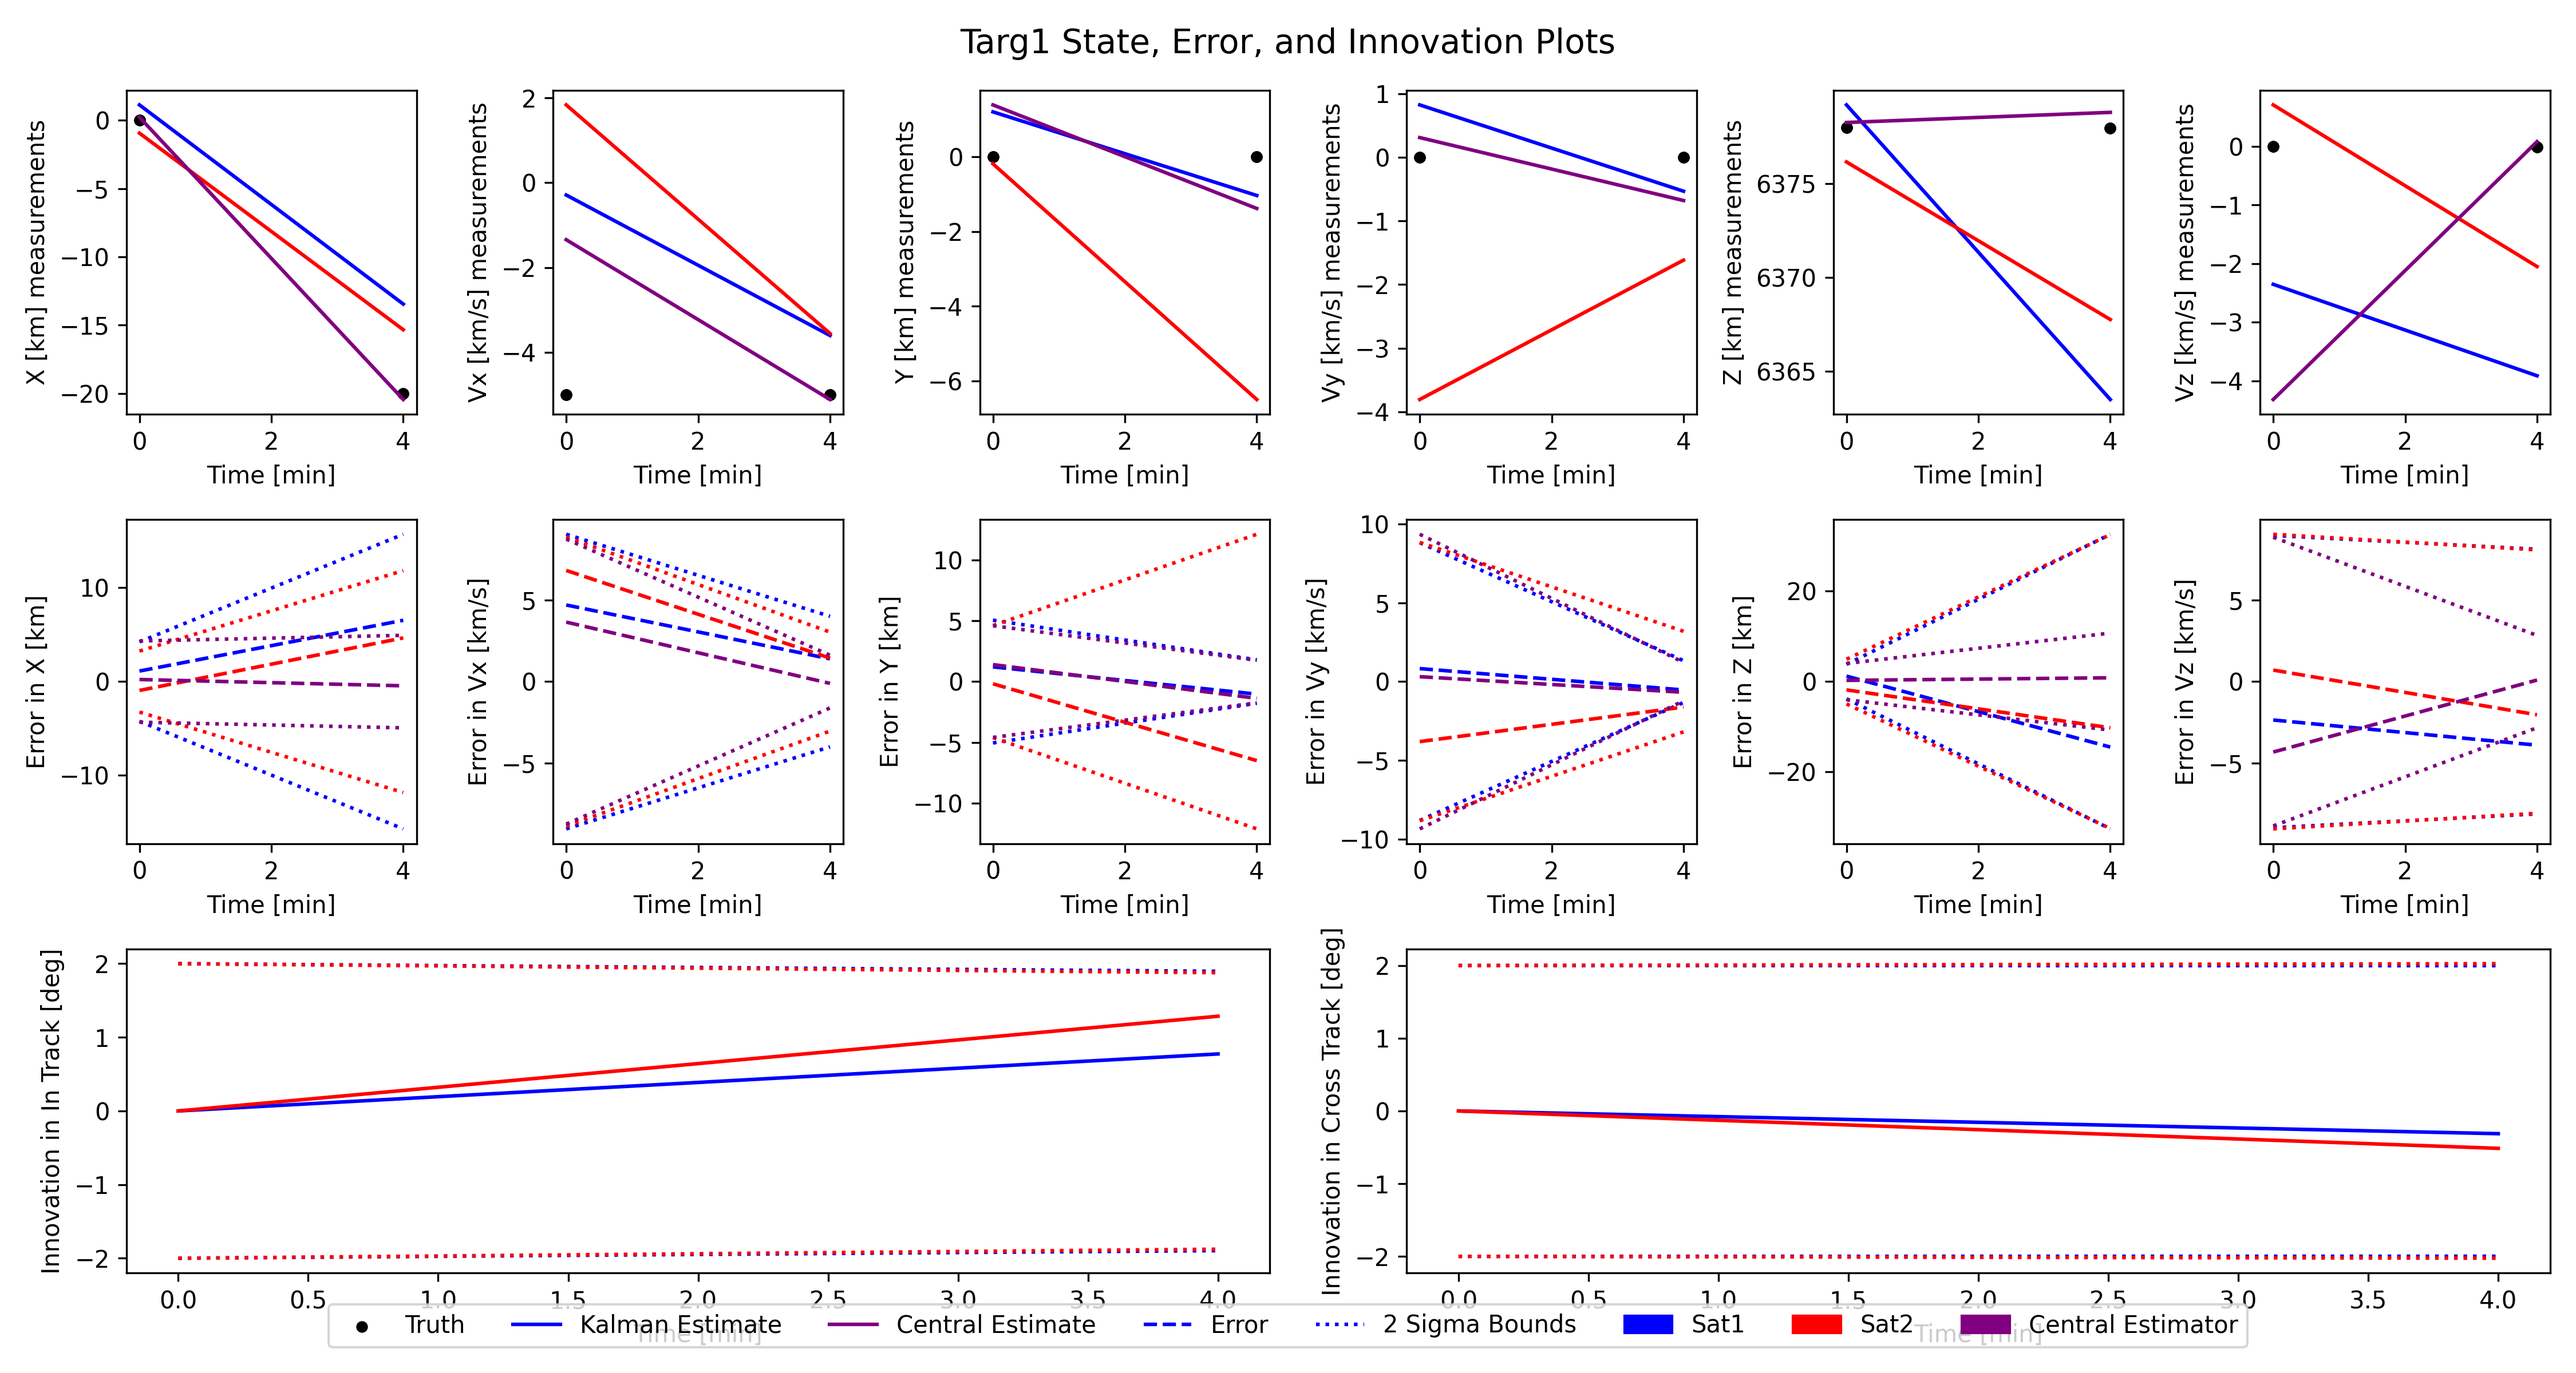
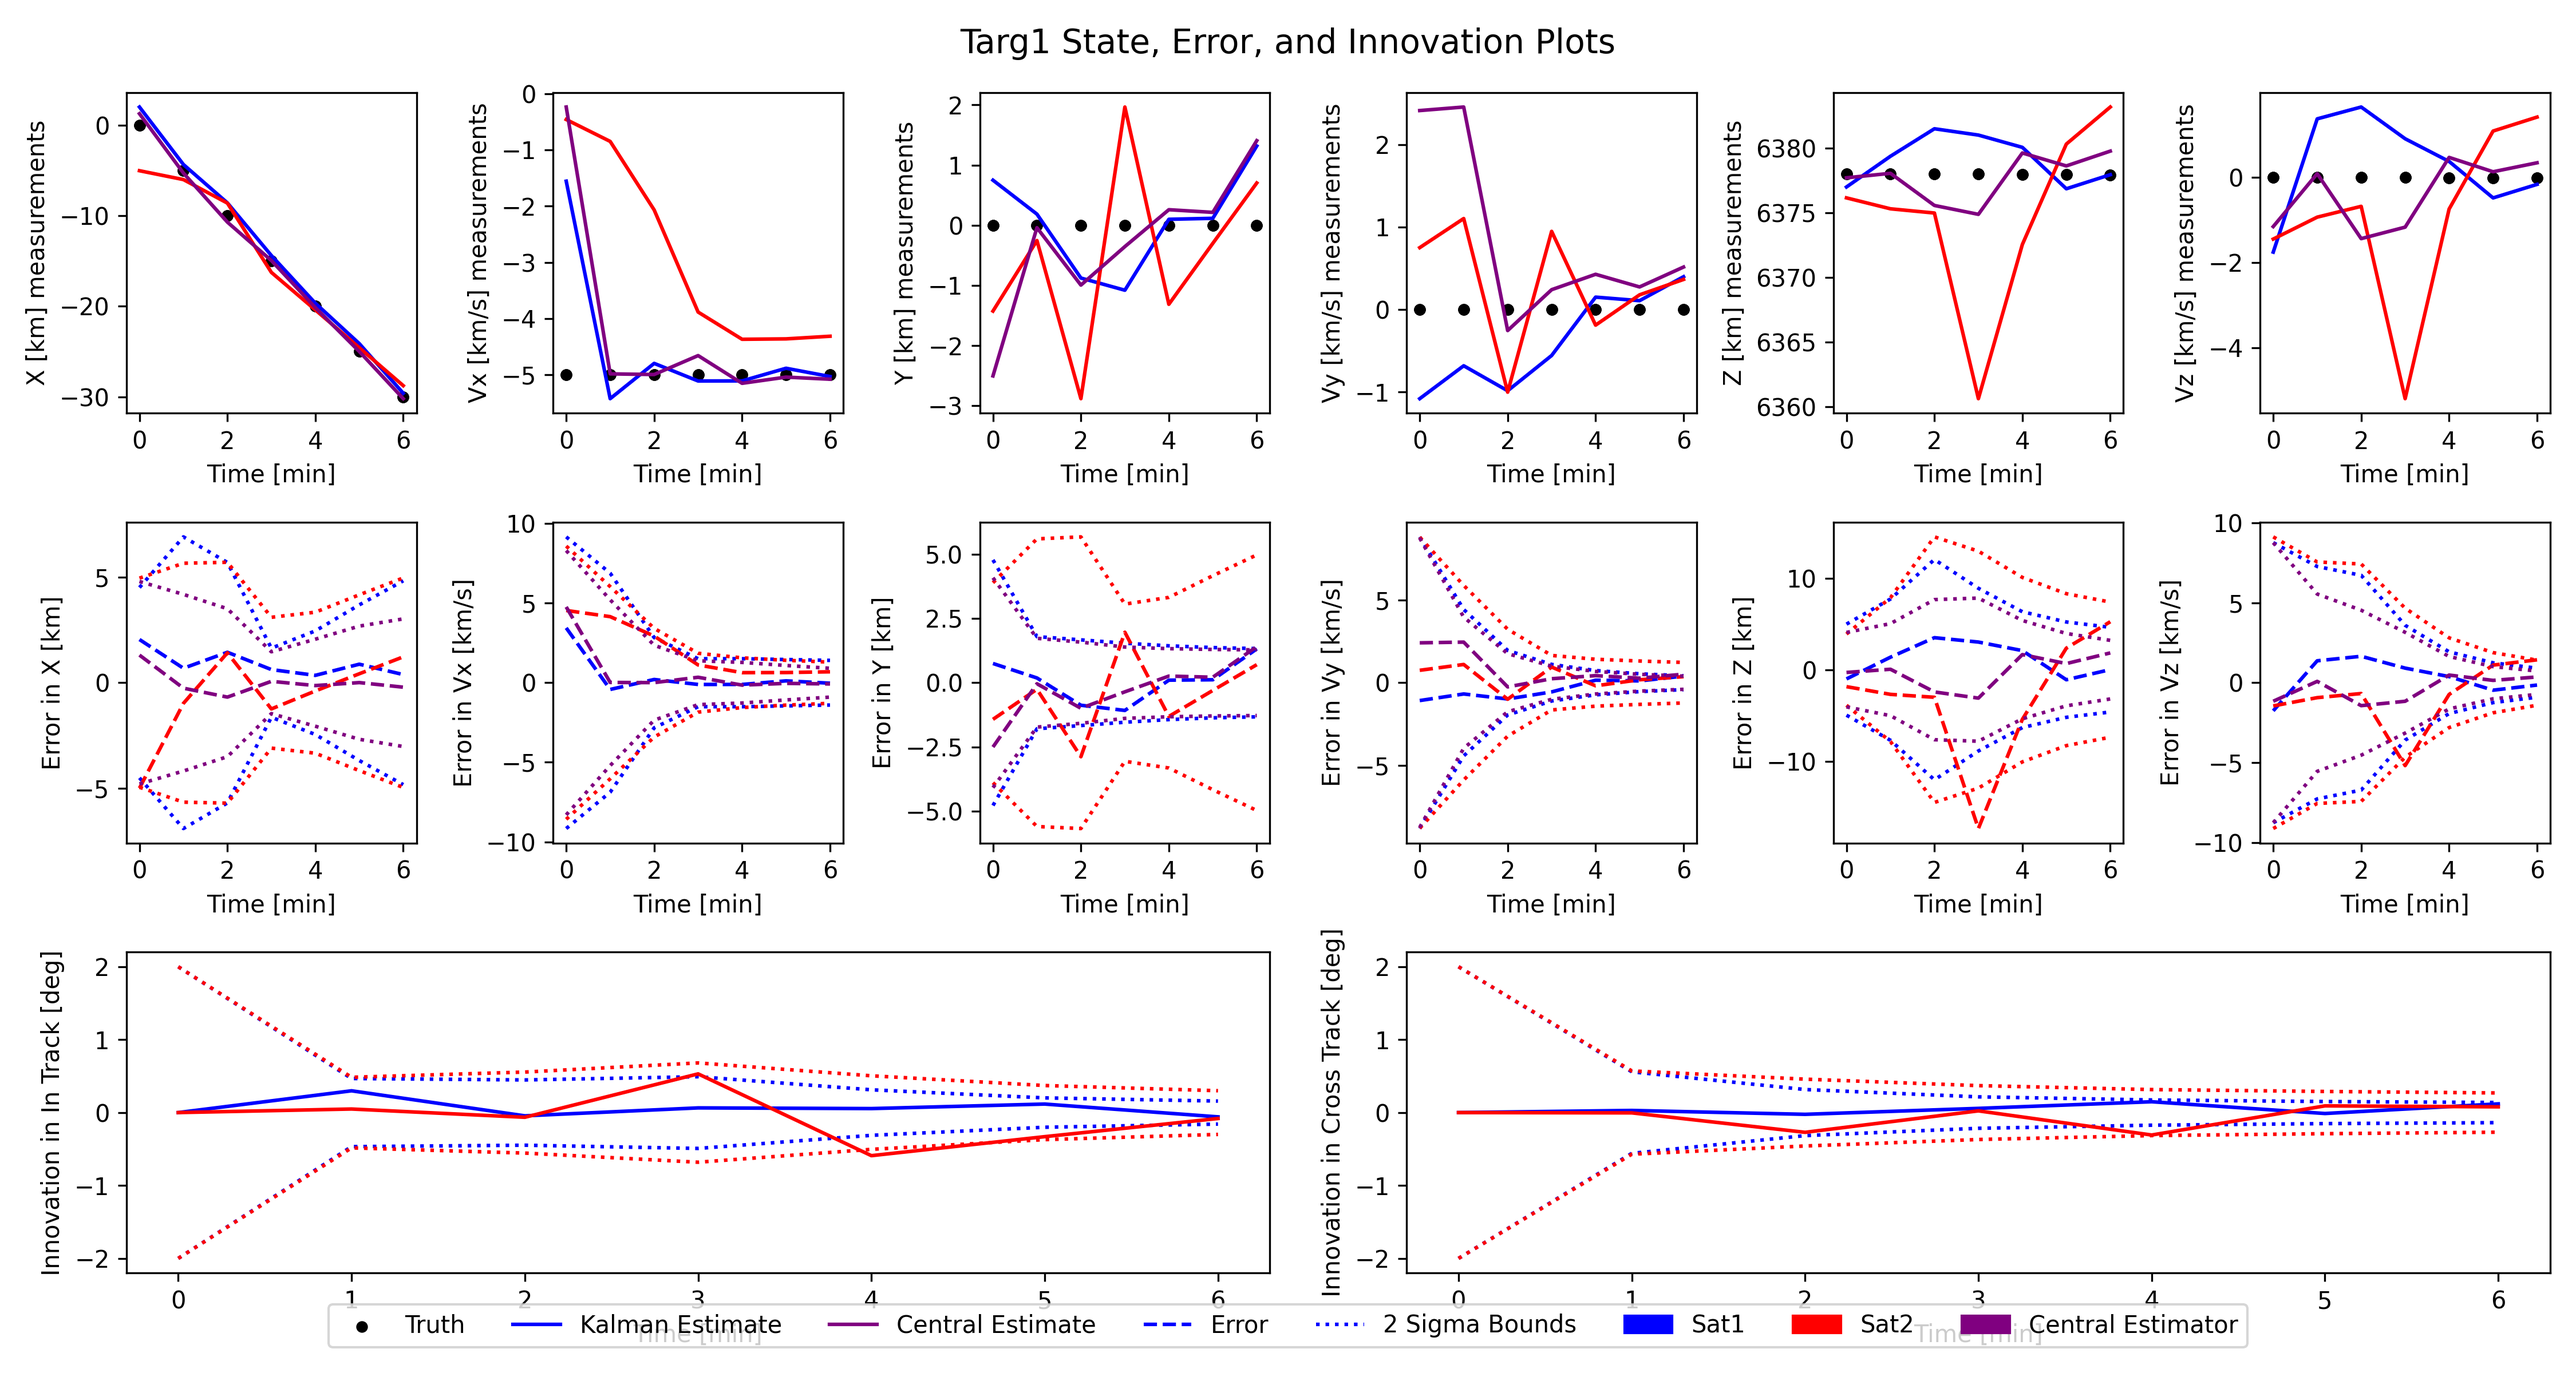
Added Covariance Intersection functionality, needs tuning

diff --git a/phase1/main.py b/phase1/main.py
@@ -5,7 +5,7 @@ from import_libraries import *
 from satelliteClass import satellite
 from targetClass import target
 from environmentClass import environment
-from estimatorClass import centralEstimator, localEstimator
+from estimatorClass import centralEstimator, localEstimator, dataFusion
 from sensorClass import sensor
 from commClass import comms
 
@@ -25,16 +25,19 @@ def create_environment():
     local2 = localEstimator(targetIDs = targetIDs)
     central = centralEstimator(targetIDs = targetIDs) # TODO: why not just make centralized always do all targets? since it is the baseline?
 
+    # Define the Data Fusion Algorithm
+    dataFusionAlg = dataFusion(targetIDs = targetIDs)
+    
     # Define the satellites:
-    sat1 = satellite(name = 'Sat1', sensor = sens1, targetIDs=targetIDs, estimator = local1, a = Earth.R + 1000 * u.km, ecc = 0, inc = 90, raan = 0, argp = 80, nu = 0, color='b')
-    sat2 = satellite(name = 'Sat2', sensor = sens2, targetIDs=targetIDs, estimator = local2, a = Earth.R + 1000 * u.km, ecc = 0, inc = 90, raan = -45, argp = 80, nu = 0, color='r')
+    sat1 = satellite(name = 'Sat1', sensor = sens1, targetIDs=targetIDs, estimator = local1, dataFusion=dataFusionAlg, a = Earth.R + 1000 * u.km, ecc = 0, inc = 90, raan = 0, argp = 80, nu = 0, color='b')
+    sat2 = satellite(name = 'Sat2', sensor = sens2, targetIDs=targetIDs, estimator = local2, dataFusion=dataFusionAlg, a = Earth.R + 1000 * u.km, ecc = 0, inc = 90, raan = -45, argp = 80, nu = 0, color='r')
 
     sats = [sat1, sat2]
 
     # Define the target objects:
     targ1 = target(name = 'Targ1', targetID=1, cords = np.array([90,0,0]), heading=0, speed=5, climbrate = 0, color = 'k')
-    targ2 = target(name = 'Targ2', targetID=2, cords = np.array([0,0,200]), heading=90, speed=100, climbrate = 1, color = 'r')
-    targs = [targ1, targ2]
+    #targ2 = target(name = 'Targ2', targetID=2, cords = np.array([0,0,200]), heading=90, speed=100, climbrate = 1, color = 'r')
+    targs = [targ1]#, targ2]
 
     # Define the communication network:
     comms_network = comms(sats, maxNeighbors = 3, maxRange = 5000*u.km, minRange = 500*u.km, displayStruct = True)
@@ -107,7 +110,7 @@ def plot_NEES_NIS(simData):
 
 if __name__ == "__main__":
     # Vector of time for simulation:
-    time_vec = np.linspace(0, 40, 11) * u.minute
+    time_vec = np.linspace(0, 10, 11) * u.minute
 
     # Number of simulations:
     numSims = 1

diff --git a/phase1/estimatorClass.py b/phase1/estimatorClass.py
@@ -357,4 +357,52 @@ class localEstimator:
         
         return Q
 
+
+
+class dataFusion:
+    def __init__(self, targetIDs):
+        self.targs = targetIDs
+        self.CI_estHist = {targetID: defaultdict(dict) for targetID in targetIDs}
+        self.CI_covHist = {targetID: defaultdict(dict) for targetID in targetIDs}
+        
     
+    def covariance_intersection(self, sat1, sat2, targetID, envTime):
+        # Grab the most recent estimate and covariance on common target for both satellites
+        time_prior = max(sat1.estimator.estHist[targetID].keys())
+        
+        est1 = sat1.estimator.estHist[targetID][time_prior]
+        est2 = sat2.estimator.estHist[targetID][time_prior]
+        cov1 = sat1.estimator.covarianceHist[targetID][time_prior]
+        cov2 = sat2.estimator.covarianceHist[targetID][time_prior]
+        
+        # Minimum Covariance Determinant
+        omegaOpt= minimize(self.det_of_fused_covariance, [0.5], args=(cov1, cov2), bounds=[(0, 1)]).x
+        
+        # Compute Fused Covariance
+        covFused = np.linalg.inv(omegaOpt * np.linalg.inv(cov1) + (1 - omegaOpt) * np.linalg.inv(cov2))
+        estFused = covFused @ (omegaOpt*np.linalg.inv(cov1) @ est1 + (1-omegaOpt)*np.linalg.inv(cov2) @ est2)
+        
+        self.CI_estHist[targetID][envTime] = estFused
+        self.CI_covHist[targetID][envTime] = covFused
+        
+        # Print Out the New State Estimate and Covaraince
+        np.set_printoptions(precision=4, suppress=True)
+
+        print('*' * 50)
+        print(f"Sat1 Estimate:\n{est1}")
+        print(f"Sat1 Covariance:\n{cov1}\n")
+        print(f"Sat2 Estimate:\n{est2}")
+        print(f"Sat2 Covariance:\n{cov2}\n")
+        print(f"Fused Estimate:\n{estFused}")
+        print(f"Fused Covariance:\n{covFused}")
+        print(f"Optimal Weight: {omegaOpt}")
+        print('*' * 50)
+        
+    
+    def det_of_fused_covariance(self, omega, cov1, cov2):
+        # Calculate the determinant of the fused covariance matrix
+        # omega is the weight of the first covariance matrix
+        # cov1 and cov2 are the covariance matrices of the two estimates
+        omega = omega[0]
+        P = np.linalg.inv(omega * np.linalg.inv(cov1) + (1 - omega) * np.linalg.inv(cov2))
+        return np.linalg.det(P)

diff --git a/phase1/environmentClass.py b/phase1/environmentClass.py
@@ -87,7 +87,7 @@ class environment:
         for sat in self.sats:
             sat.time = time_val
 
-    # Propagate the targets position
+        # Propagate the targets position
         for targ in self.targs:
 
             # Propagate the target
@@ -112,6 +112,19 @@ class environment:
         # Collect measurements on any avaliable targets
             collectedFlag[satNum] = sat.collect_measurements(self.targs) # if any measurement was collected, will be true
             satNum += 1
+            
+        # Check if other satellites collected information on same target -> do data fusion
+        if self.comms.displayStruct:
+            for sat in self.sats:
+                for sat2 in self.sats:
+                    if sat != sat2:
+                        if self.comms.G.has_edge(sat, sat2):
+                            for targetID in sat.targetIDs:
+                                if targetID in sat2.targetIDs:
+                                    sat.dataFusion.covariance_intersection(sat, sat2, targetID, time_val)
+                                    # Print True target state
+                                    print(f"True Target State: {self.targs[0].hist[time_val]}")
+                                    
 
         # Update Central Estimator on all targets if measurments were collected
         if any(collectedFlag == 1) and self.centralEstimator:

diff --git a/phase1/satelliteClass.py b/phase1/satelliteClass.py
@@ -2,7 +2,7 @@ from import_libraries import *
 ## Creates the satellite class, will contain the poliastro orbit and all other parameters needed to define the orbit
 
 class satellite:
-    def __init__(self, a, ecc, inc, raan, argp, nu, sensor, targetIDs, estimator, name, color):
+    def __init__(self, a, ecc, inc, raan, argp, nu, sensor, targetIDs, estimator, dataFusion, name, color):
     
     # Sensor to use
         self.sensor = sensor
@@ -13,6 +13,9 @@ class satellite:
 
     # Estimator to use
         self.estimator = estimator
+    
+    # Data Fusion to use
+        self.dataFusion = dataFusion
 
     # Other parameters
         self.name = name

diff --git a/phase1/import_libraries.py b/phase1/import_libraries.py
@@ -25,5 +25,6 @@ from mpl_toolkits.mplot3d import Axes3D
 from mpl_toolkits.mplot3d.art3d import Poly3DCollection
 from scipy.spatial.transform import Rotation as R
 from scipy.linalg import block_diag
+from scipy.optimize import minimize
 from collections import defaultdict
 from ambiance import Atmosphere # NOLAN install this libray for Std Atm
